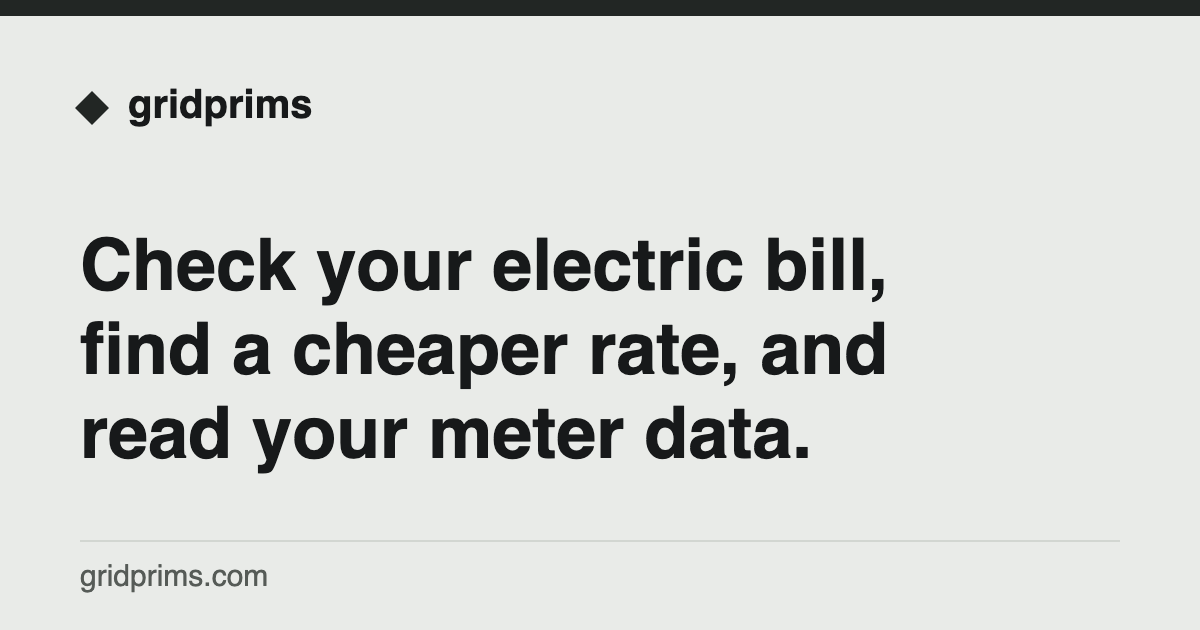
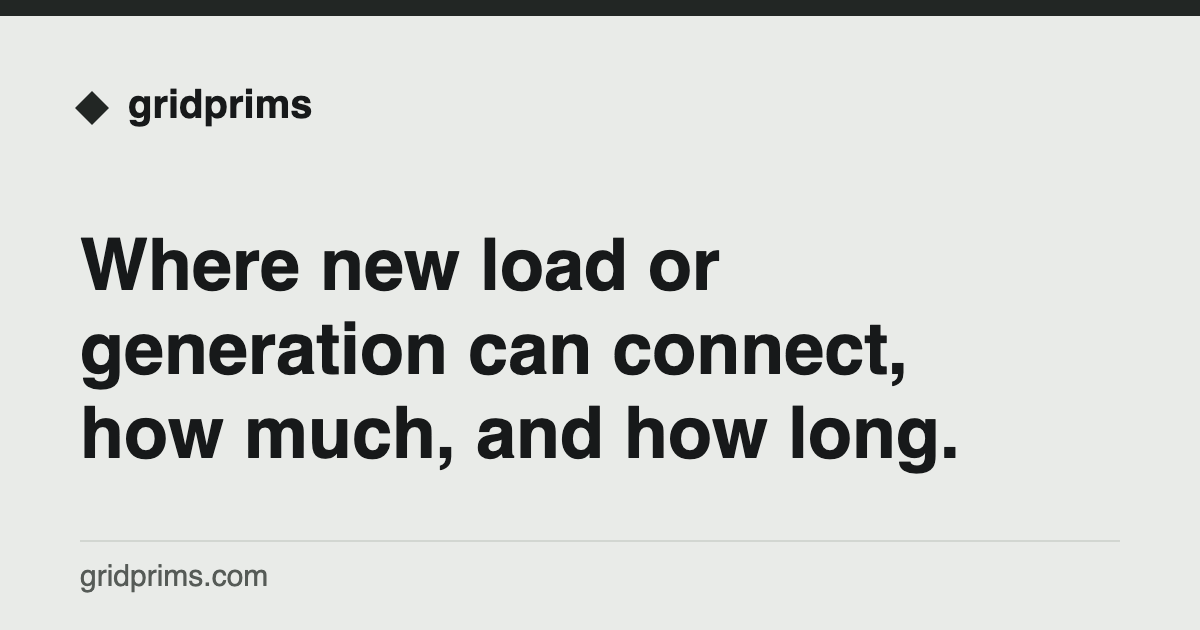
feat(site): one footer, and a siting form that lines up
The three controls now share one height, one type size, and one
baseline, each column sized to its content so the row reads as a group
centred under the question. The ZIP error moved out of its field and
below the row: holding it inside made that one control sit higher than
the others, which is what looked crooked.

The footer is one band of four smaller cards, All tools, GitHub,
About, and the maintainer's credit, with nothing under them. Two
things that used to live in that second line are kept rather than
dropped: the licence notice stays on /license/, which the About card
reaches, and the report form joins the About index, where it had been
left out precisely because every footer carried it. The workbench gets
its own report button, as tool pages already had, so a misparsed meter
file can still be reported from the page it happened on.

Title, description, and the shared card now lead with the siting
question too, instead of still advertising the bill checker.

Changed region(s): [[0.0617, 0.5127, 0.8017, 0.754], [0.0617, 0.3619, 0.74, 0.4825]]

diff --git a/site/styles/home.css b/site/styles/home.css
@@ -78,16 +78,26 @@
 .home-search .command-results { text-align: left; }
 .home-search .unit-hint { margin-top: var(--s3); }
 
-/* The siting read-out: the question, three inputs on one line, then the answer. */
+/* The siting read-out: the question, three controls on one row, then the answer.
+   The controls share one height, one type size, and one baseline; the error sits
+   below the row so no single field can push its own control out of line. */
 .siting { max-width: 56rem; margin: 0 auto; }
 .siting .home-title { margin-bottom: var(--s3); }
 .siting .start-sub { text-align: center; max-width: 60ch; margin-left: auto; margin-right: auto; }
-.siting-form { display: flex; gap: var(--s3); align-items: flex-end; flex-wrap: wrap; justify-content: center; margin: var(--s5) 0 var(--s2); }
+.siting-form { display: grid; grid-template-columns: 1fr; gap: var(--s3); max-width: 21rem; margin: var(--s5) auto var(--s2); text-align: left; }
 .siting-form .field { margin: 0; }
-.siting-form input { min-height: 48px; min-width: 7rem; padding: 10px 12px; border: 1px solid var(--field-border); border-radius: var(--r-field); background: var(--panel); color: var(--ink); font-size: 1rem; }
-.siting-form select { min-height: 48px; }
-.siting-form .button { min-height: 48px; }
+.siting-form input, .siting-form select, .siting-form .button {
+  width: 100%; min-height: 48px; padding: 10px 12px; font-size: 1rem; border-radius: var(--r-field);
+}
+.siting-form input, .siting-form select { border: 1px solid var(--field-border); background: var(--panel); color: var(--ink); }
+.siting-form .button { align-self: end; }
+.siting > .error { text-align: center; margin: 0 0 var(--s2); min-height: 1.25rem; }
 .siting > .unit-hint { text-align: center; }
+@media (min-width: 720px) {
+  /* Two equal data fields, the choice, then the action: every column sized to its
+     content so the row reads as one group, centred under the question. */
+  .siting-form { grid-template-columns: repeat(3, 9rem) auto; align-items: end; justify-content: center; max-width: none; }
+}
 .siting-resolution { margin-top: var(--s6); }
 .siting-answer:not(:empty) { margin-top: var(--s6); }
 .siting-utilities { list-style: none; padding: 0; margin: 0; border-top: 1px solid var(--line); }

diff --git a/site/styles/site.css b/site/styles/site.css
@@ -243,11 +243,11 @@ td.num { text-align: right; font-variant-numeric: tabular-nums; }
 footer { border-top: 1px solid var(--line); margin-top: var(--s8); padding: var(--s5) 0 var(--s6); color: var(--muted); font-size: .8125rem; }
 footer ul { list-style: none; padding: 0; margin: 0 0 var(--s3); display: flex; gap: var(--s4); flex-wrap: wrap; }
 /* The footer's four cards (DESIGN.md "Footer Cards"): the whole card is the link. */
-.footer-cards { display: grid; grid-template-columns: 1fr; gap: var(--s3); margin-bottom: var(--s5); }
-.footer-cards a { display: block; height: 100%; background: var(--panel); border: 1px solid var(--line); border-radius: var(--r-field); padding: var(--s4); text-decoration: none; color: var(--ink); }
+.footer-cards { display: grid; grid-template-columns: 1fr; gap: var(--s2); margin-bottom: 0; }
+.footer-cards a { display: block; height: 100%; background: var(--panel); border: 1px solid var(--line); border-radius: var(--r-field); padding: var(--s3); text-decoration: none; color: var(--ink); }
 .footer-cards a:hover { background: var(--panel-hover); }
-.footer-cards .card-title { display: block; font-weight: 600; font-size: .9375rem; }
-.footer-cards .card-note { display: block; margin-top: var(--s1); color: var(--muted); font-size: .8125rem; }
+.footer-cards .card-title { display: block; font-weight: 600; font-size: .875rem; }
+.footer-cards .card-note { display: block; margin-top: 2px; color: var(--muted); font-size: .75rem; }
 @media (min-width: 480px) { .footer-cards { grid-template-columns: 1fr 1fr; } }
 @media (min-width: 768px) { .footer-cards { grid-template-columns: repeat(4, 1fr); } }
 .trust-index { list-style: none; padding: 0; display: grid; grid-template-columns: repeat(auto-fill, minmax(min(100%, 200px), 1fr)); gap: var(--s2) var(--s4); }
